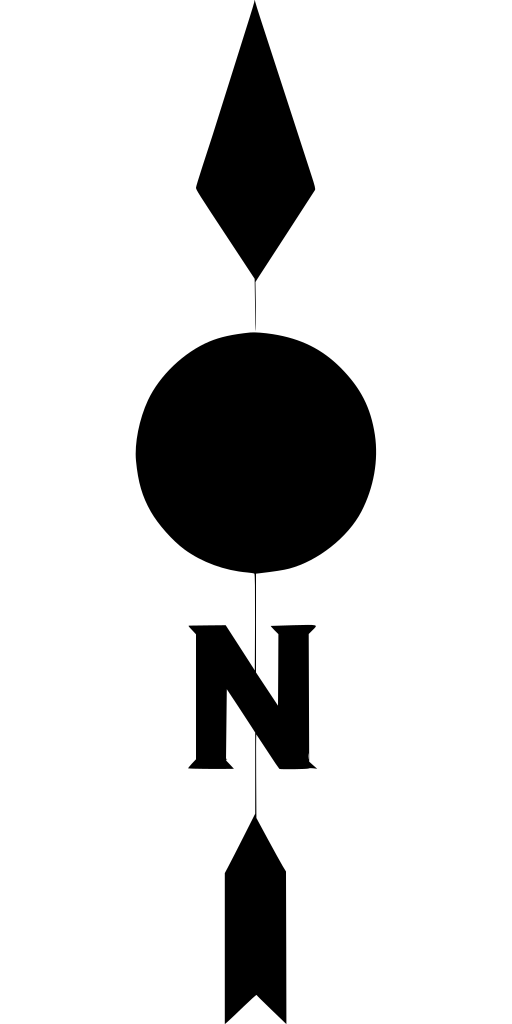
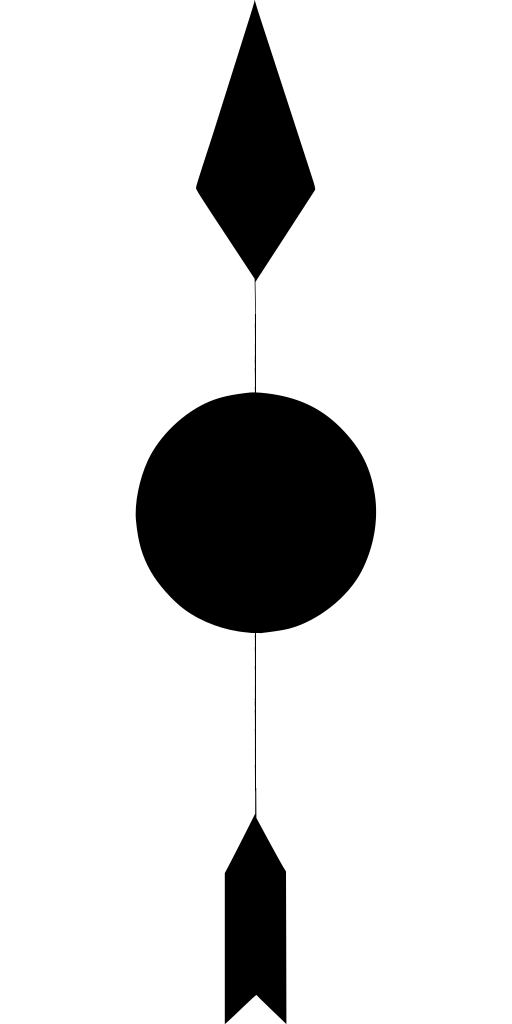
centered arrow

Changed region(s): [[0.25, 0.3125, 0.75, 0.75]]

diff --git a/css/style.css b/css/style.css
@@ -1,3 +1,19 @@
+body,
+html {
+	margin: 0;
+	padding: 0;
+	height: 100%;
+	display: flex;
+	align-items: center;
+	justify-content: center;
+}
+
 p {
 	text-align: center;
+	margin-top: auto;
+	margin-bottom: auto;
+}
+
+.arrow {
+	height: 80vh;
 }

diff --git a/index.html b/index.html
@@ -12,6 +12,6 @@
 
 <body>
 	<p>
-		<img class="arrow" src="img/arrow.png" width="300px" height="600px"></img>
+		<img class="arrow" src="img/arrow.png"></img>
 	</p>
 </body>
